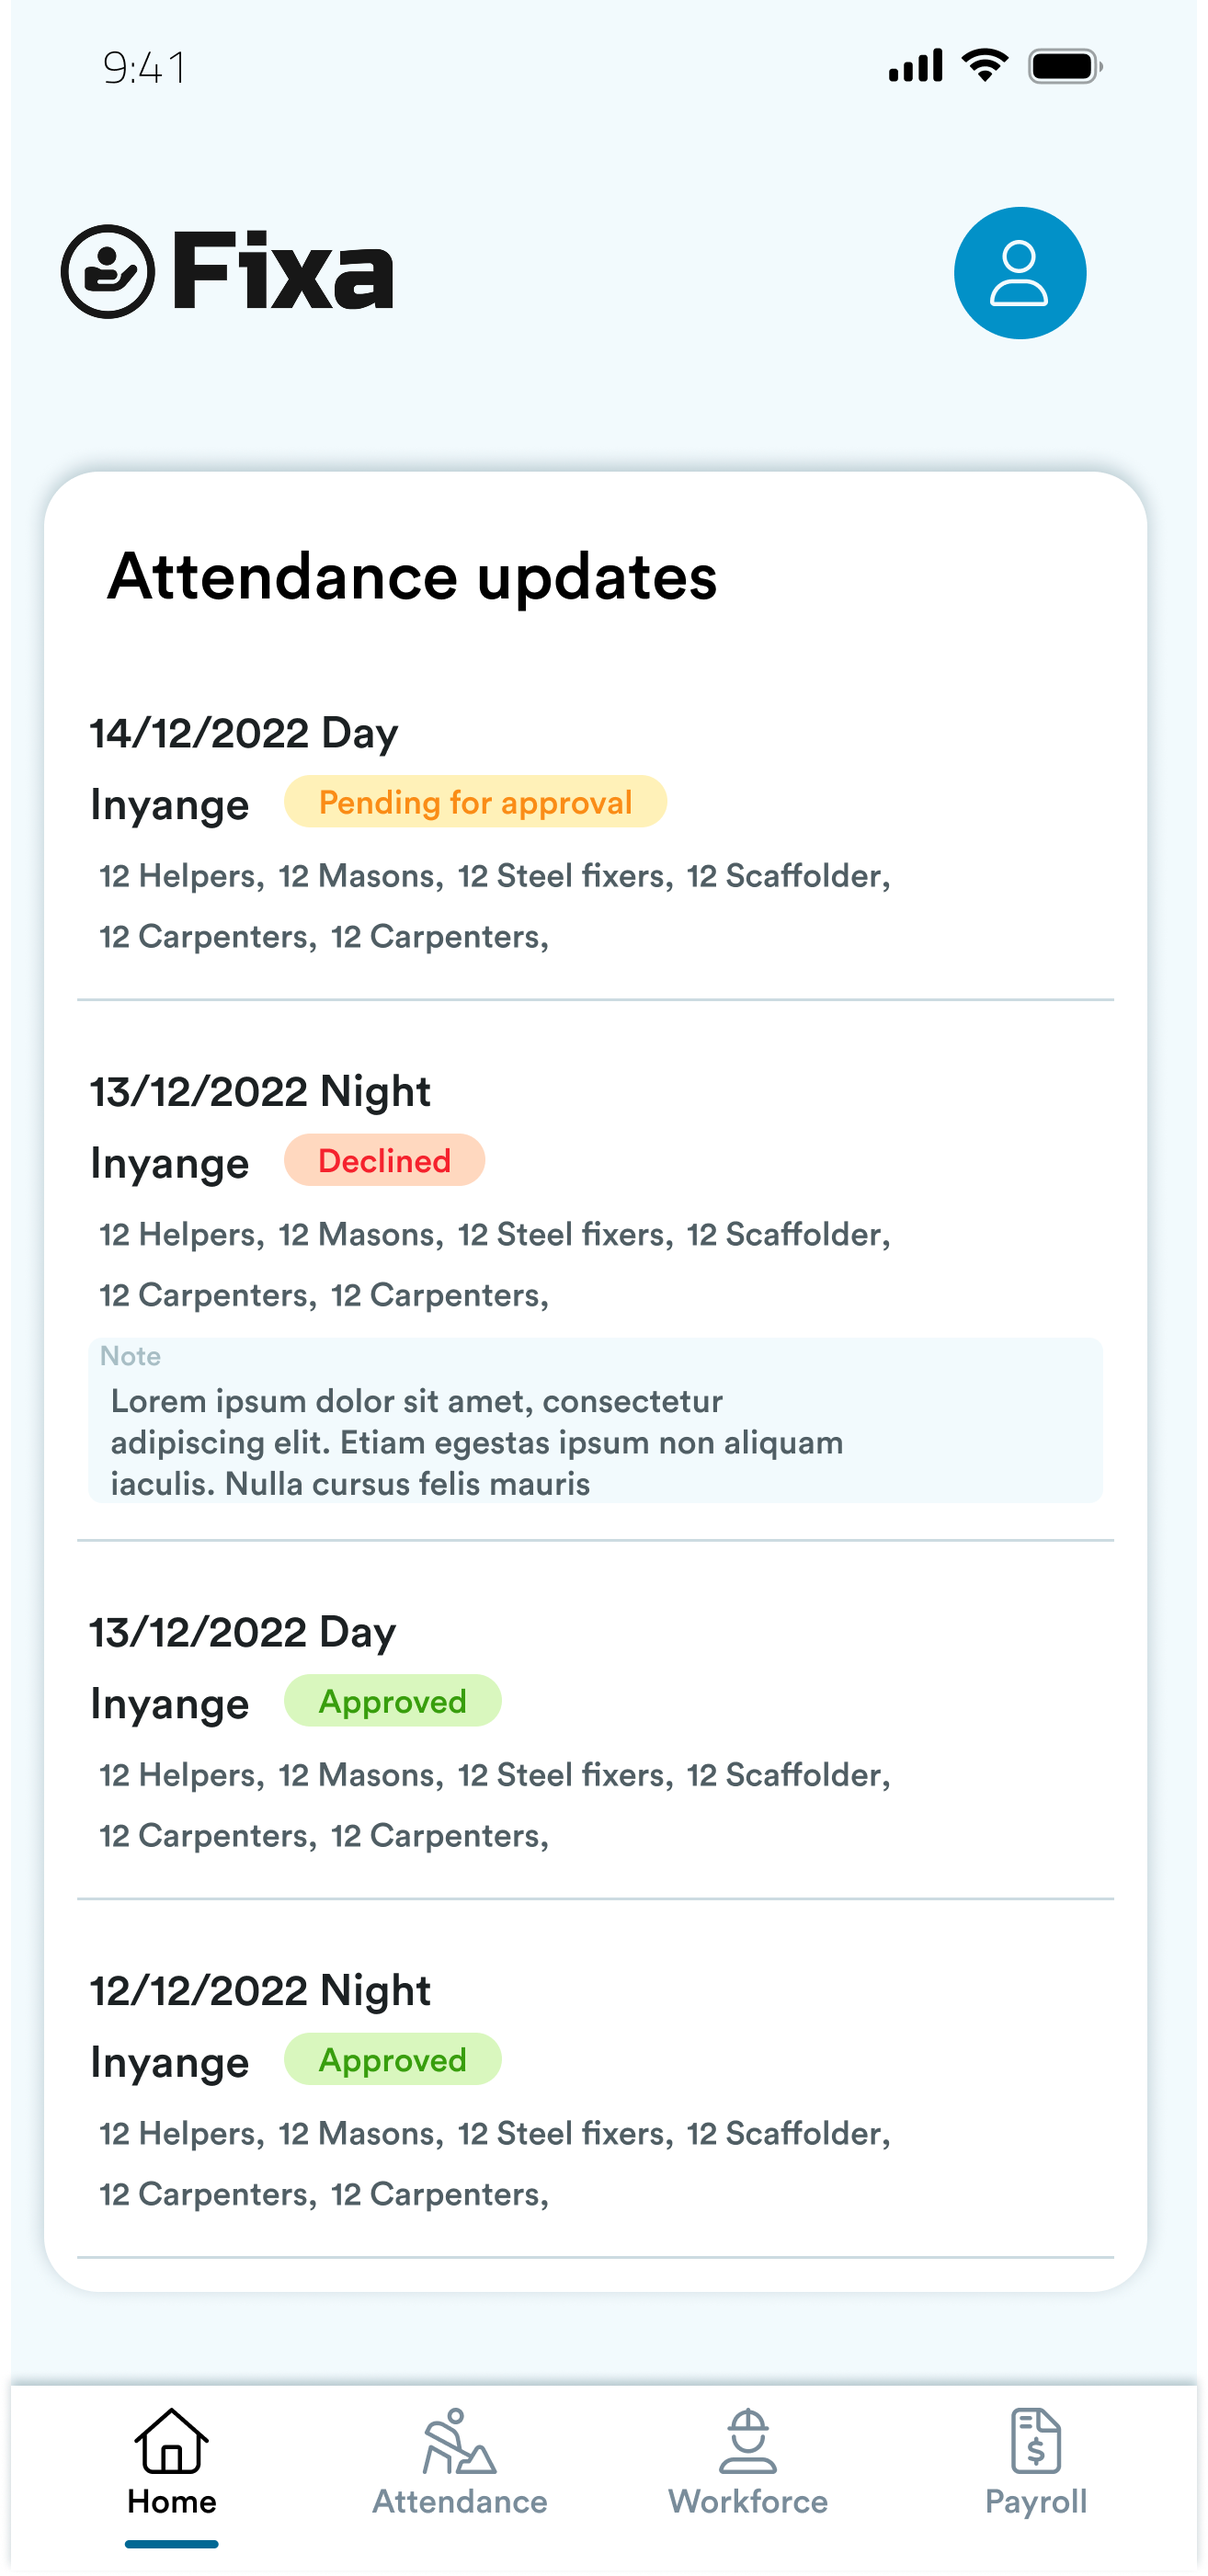
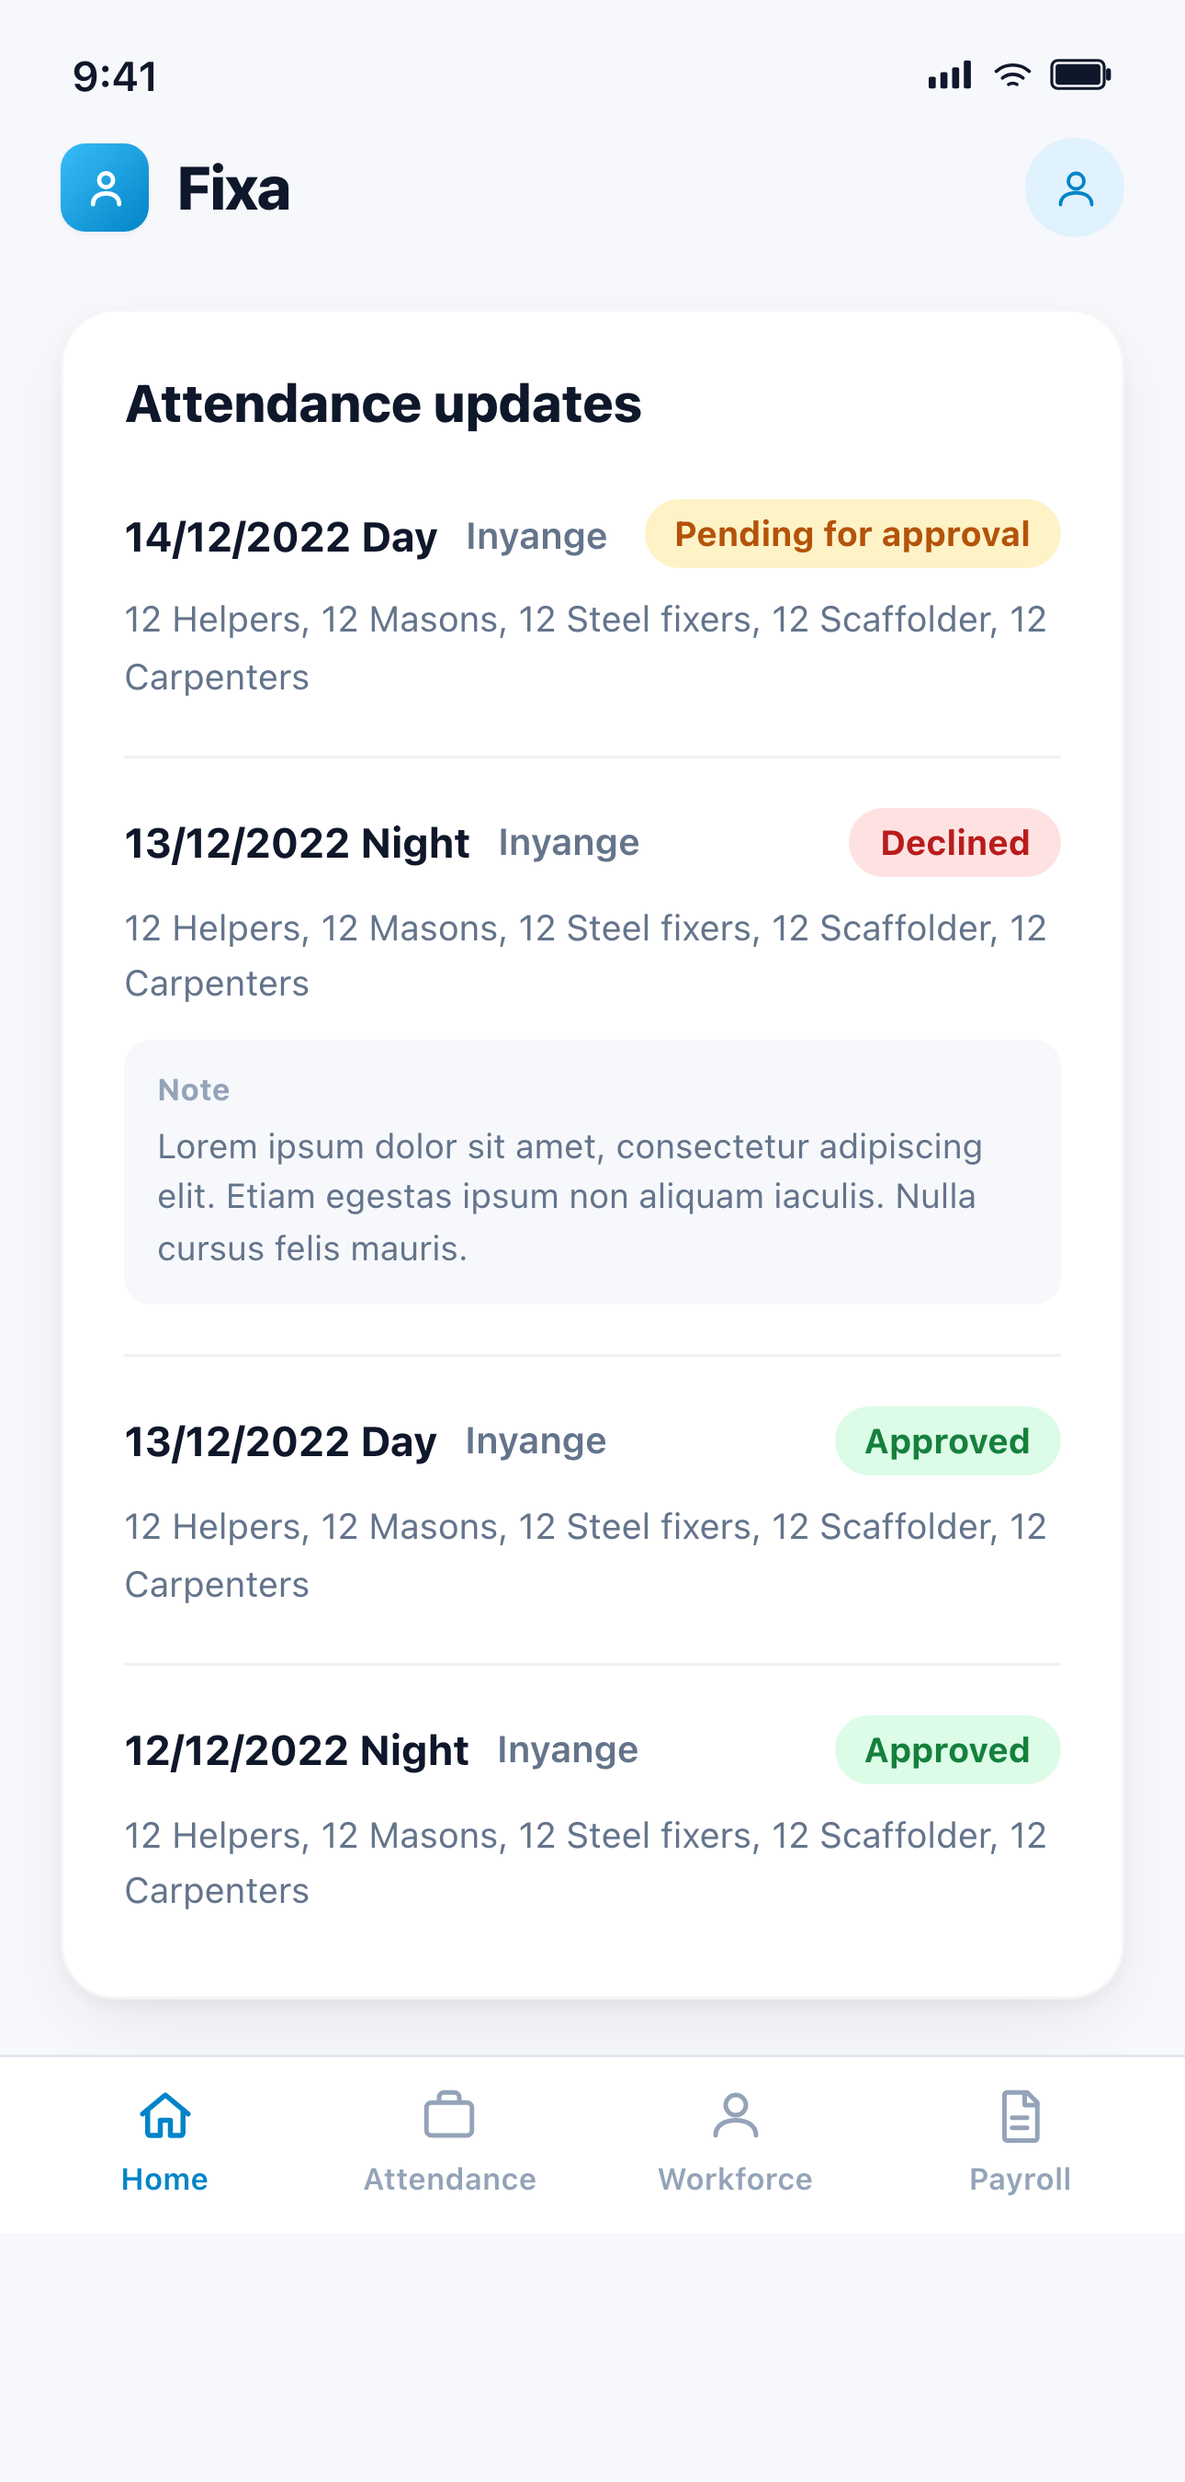
Swap Fixa screenshots for the visual redesign
Same four portals, refreshed UI (cleaner iconography, denser
layouts, updated color treatment) — updates image dimensions in
projects.ts to match the redesigned files' actual sizes.

Also suppresses a harmless hydration-mismatch warning on <html>
caused by a browser extension (data-scribe-recorder-ready) injecting
an attribute before React hydrates.

diff --git a/src/lib/projects.ts b/src/lib/projects.ts
@@ -347,21 +347,21 @@ export const projects: Project[] = [
         heading: "On-site mobile app",
         primary: {
           src: "/work/fixa/app-home.png",
-          width: 1314,
-          height: 4155,
+          width: 1290,
+          height: 3555,
           alt: "Mobile app home for a supervisor managing multiple projects, with attendance-approval notifications and worker search",
         },
         carousel: [
           {
             src: "/work/fixa/app-home-single-project.png",
-            width: 1314,
-            height: 2802,
+            width: 1290,
+            height: 2700,
             alt: "Mobile app home for a single-project user, showing an attendance-updates feed with approval status",
           },
           {
             src: "/work/fixa/app-attendance.png",
             width: 1290,
-            height: 2796,
+            height: 2700,
             alt: "Marking attendance on-site by shift and trade, with a running headcount",
           },
         ],
@@ -371,21 +371,21 @@ export const projects: Project[] = [
         heading: "Admin portal",
         primary: {
           src: "/work/fixa/admin-workforce.png",
-          width: 3096,
-          height: 2380,
+          width: 3120,
+          height: 2534,
           alt: "Workforce directory listing every worker with status, trade, project, and daily earnings",
         },
         carousel: [
           {
             src: "/work/fixa/admin-worker-profile.png",
-            width: 3096,
-            height: 2380,
+            width: 3120,
+            height: 2064,
             alt: "Individual worker profile with trades, day rates, ratings, and certificates",
           },
           {
             src: "/work/fixa/admin-worker-scores.png",
-            width: 3096,
-            height: 2380,
+            width: 3120,
+            height: 1800,
             alt: "Worker scorecard breaking performance into flexibility, reliability, KYC, technical, and multi-skill scores",
           },
         ],
@@ -395,15 +395,15 @@ export const projects: Project[] = [
         heading: "Client portal",
         primary: {
           src: "/work/fixa/client-attendance.png",
-          width: 3024,
-          height: 2356,
+          width: 3120,
+          height: 2098,
           alt: "Client-facing portal for reviewing and approving submitted shift attendance by trade",
         },
         carousel: [
           {
             src: "/work/fixa/client-billing.png",
-            width: 3024,
-            height: 2356,
+            width: 3120,
+            height: 2204,
             alt: "Client billing view listing invoices, payment status, and linked tax (EBM) certificates",
           },
         ],
@@ -414,14 +414,14 @@ export const projects: Project[] = [
         primary: {
           src: "/work/fixa/email-report.png",
           width: 3092,
-          height: 6056,
+          height: 4494,
           alt: "Daily reporting email breaking down active workers, shifts, and USSD usage per project with charts",
         },
         carousel: [
           {
             src: "/work/fixa/email-report-simple.png",
             width: 3092,
-            height: 7190,
+            height: 5426,
             alt: "Plain-text variant of the daily reporting email, sent automatically per active project",
           },
         ],

diff --git a/src/app/layout.tsx b/src/app/layout.tsx
@@ -33,7 +33,11 @@ export default function RootLayout({
   children: React.ReactNode;
 }>) {
   return (
-    <html lang="en" className={`${display.variable} ${body.variable} ${mono.variable}`}>
+    <html
+      lang="en"
+      className={`${display.variable} ${body.variable} ${mono.variable}`}
+      suppressHydrationWarning
+    >
       <body>
         {children}
         <Analytics />
